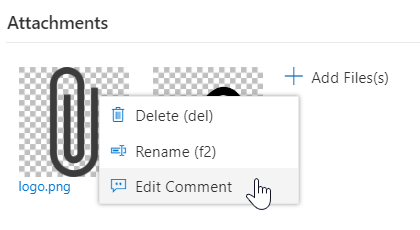
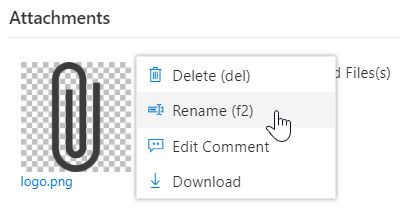
release text preview and download button

Changed region(s): [[0.03, 0.2512, 0.99, 0.9488], [0.0, 0.0558, 0.3, 0.1395]]

diff --git a/details.md b/details.md
@@ -44,6 +44,7 @@ Within the same Weblayout choose a Section element and add
 ```
 
 # Change Log
+(04/07/18) 1.1.14 text preview, auxilary download button for files that would otherwise preview on click  
 (04/07/18) 1.1.1 mp4 previews, change comments, rename files  
 (04/06/18) 1.0.56 Pdf previews  
 (04/04/18) 1.0.35 Show parent attachments  
